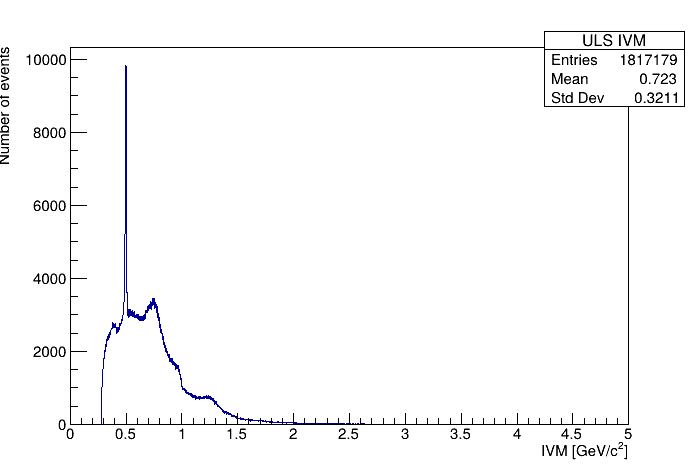
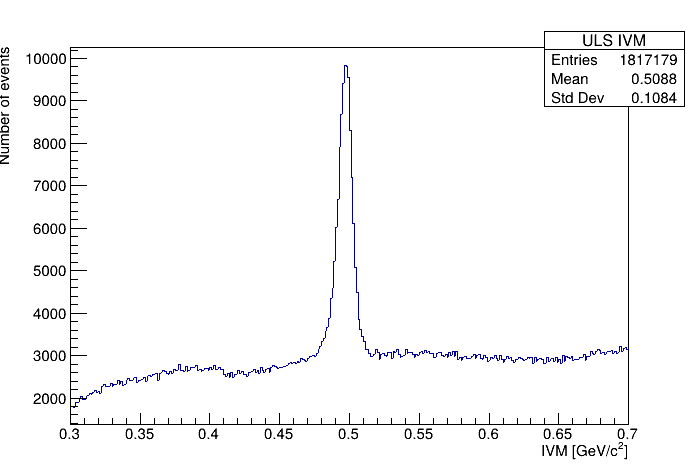
add interval dependent method for plotting ivmblueprint

diff --git a/projects/ivm_combinatorial_background/background_comparison/backgroundcomparison.C b/projects/ivm_combinatorial_background/background_comparison/backgroundcomparison.C
@@ -67,7 +67,7 @@ void plotallhistos(TH1D* blueprint, std::vector<TH1D*> histograms){
   gStyle->SetLabelSize(0.040,"XY");
   gStyle->SetTitleSize(0.045,"XY");
   gStyle->SetNumberContours(255);
-  TCanvas *cv = new TCanvas("cv","",2500,1800);
+  TCanvas *cv = new TCanvas("cv","",2800,1800);
 
   //plot blueprint
   blueprint->GetXaxis()->SetRangeUser(0.0, 2.0);
@@ -98,7 +98,7 @@ void plotallhistos(TH1D* blueprint, std::vector<TH1D*> histograms){
   cv->SaveAs(pngname.c_str());
 
   //again in logscale
-  TCanvas *cv2 = new TCanvas("cv2","log",2500,1800);
+  TCanvas *cv2 = new TCanvas("cv2","log",2800,1800);
   gPad->SetLogy();
 
   blueprint->SetMinimum(0.001);

diff --git a/projects/ivm_combinatorial_background/background_comparison/results/ivmblueprint/plotivmblueprint.C b/projects/ivm_combinatorial_background/background_comparison/results/ivmblueprint/plotivmblueprint.C
@@ -12,12 +12,13 @@
 //----------------------------------------------------------------------------------------
 
 //plotivmblueprint: plots the ivmhistogram and of ALL pion pion events
-void plotivmblueprint(TString fnconfig = "../../resources/ppHelpers/ppConfig.json"){
+void plotivmblueprint(double min, double max, TString fnconfig = "../../resources/ppHelpers/ppConfig.json"){
   
   //plot histogram
   TCanvas *cv = new TCanvas();
   TFile histofile("histo_ivmblueprint.root", "READ");
   TH1D* histo = static_cast<TH1D*>(histofile.Get("hs1d"));
+  histo->GetXaxis()->SetRangeUser(min,max);
   histo->Draw();
   cv->SaveAs("ivmblueprint.png");
   
